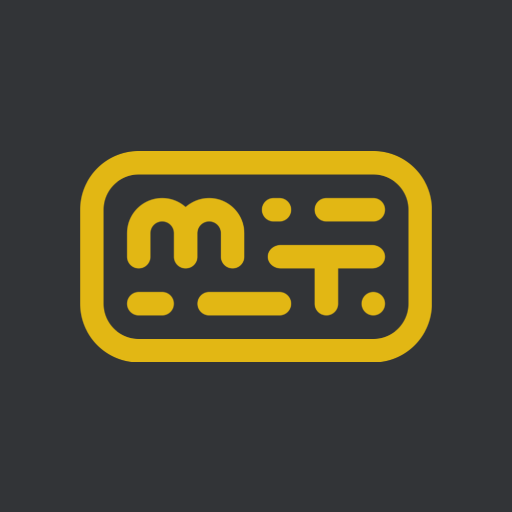
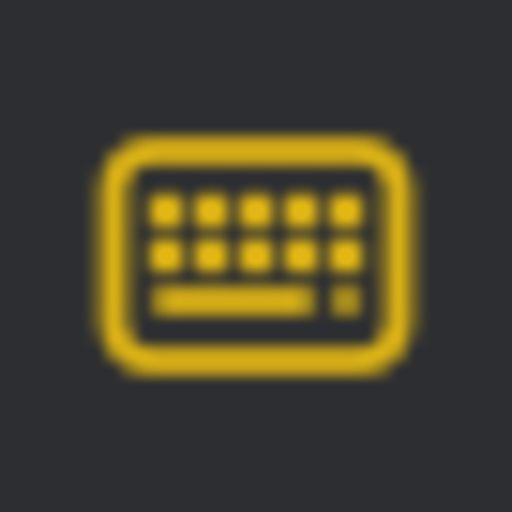
Release v1.0.2 branding update

Changed region(s): [[0.1562, 0.25, 0.8438, 0.75]]

diff --git a/frontend/src/ts/components/layout/header/Logo.tsx b/frontend/src/ts/components/layout/header/Logo.tsx
@@ -4,14 +4,13 @@ import { restartTestEvent } from "../../../events/test";
 import { getActivePage } from "../../../states/core";
 import { getFocus } from "../../../states/test";
 import { cn } from "../../../utils/cn";
-import { isDevEnvironment } from "../../../utils/env";
 
 export function Logo(): JSXElement {
   return (
     <a
       href={`${location.origin}/`}
       class="-m-2 flex h-6 w-max gap-2 rounded-[0.8rem] p-2 focus-visible:**:data-[ui-element='logoSubtext']:text-transparent"
-      aria-label="Monkeytype Home"
+      aria-label="Monkeytype Offline Home"
       router-link
       style={{
         "box-sizing": "content-box",
@@ -24,42 +23,27 @@ export function Logo(): JSXElement {
     >
       <svg
         xmlns="http://www.w3.org/2000/svg"
-        viewBox="-680 -1030 300 180"
-        class={cn("h-full fill-[currentColor] text-main transition-colors", {
+        viewBox="0 0 24 24"
+        class={cn("h-full fill-none stroke-[currentColor] text-main transition-colors", {
           "text-sub": getFocus(),
         })}
+        stroke-width="1.8"
+        stroke-linecap="round"
+        stroke-linejoin="round"
+        aria-hidden="true"
       >
-        <g>
-          <path d="M -430 -910 L -430 -910 C -424.481 -910 -420 -905.519 -420 -900 L -420 -900 C -420 -894.481 -424.481 -890 -430 -890 L -430 -890 C -435.519 -890 -440 -894.481 -440 -900 L -440 -900 C -440 -905.519 -435.519 -910 -430 -910 Z"></path>
-          <path d=" M -570 -910 L -510 -910 C -504.481 -910 -500 -905.519 -500 -900 L -500 -900 C -500 -894.481 -504.481 -890 -510 -890 L -570 -890 C -575.519 -890 -580 -894.481 -580 -900 L -580 -900 C -580 -905.519 -575.519 -910 -570 -910 Z "></path>
-          <path d="M -590 -970 L -590 -970 C -584.481 -970 -580 -965.519 -580 -960 L -580 -940 C -580 -934.481 -584.481 -930 -590 -930 L -590 -930 C -595.519 -930 -600 -934.481 -600 -940 L -600 -960 C -600 -965.519 -595.519 -970 -590 -970 Z"></path>
-          <path d=" M -639.991 -960.515 C -639.72 -976.836 -626.385 -990 -610 -990 L -610 -990 C -602.32 -990 -595.31 -987.108 -590 -982.355 C -584.69 -987.108 -577.68 -990 -570 -990 L -570 -990 C -553.615 -990 -540.28 -976.836 -540.009 -960.515 C -540.001 -960.345 -540 -960.172 -540 -960 L -540 -960 L -540 -940 C -540 -934.481 -544.481 -930 -550 -930 L -550 -930 C -555.519 -930 -560 -934.481 -560 -940 L -560 -960 L -560 -960 C -560 -965.519 -564.481 -970 -570 -970 C -575.519 -970 -580 -965.519 -580 -960 L -580 -960 L -580 -960 L -580 -940 C -580 -934.481 -584.481 -930 -590 -930 L -590 -930 C -595.519 -930 -600 -934.481 -600 -940 L -600 -960 L -600 -960 L -600 -960 L -600 -960 L -600 -960 L -600 -960 L -600 -960 L -600 -960 C -600 -965.519 -604.481 -970 -610 -970 C -615.519 -970 -620 -965.519 -620 -960 L -620 -960 L -620 -940 C -620 -934.481 -624.481 -930 -630 -930 L -630 -930 C -635.519 -930 -640 -934.481 -640 -940 L -640 -960 L -640 -960 C -640 -960.172 -639.996 -960.344 -639.991 -960.515 Z "></path>
-          <path d=" M -460 -930 L -460 -900 C -460 -894.481 -464.481 -890 -470 -890 L -470 -890 C -475.519 -890 -480 -894.481 -480 -900 L -480 -930 L -508.82 -930 C -514.99 -930 -520 -934.481 -520 -940 L -520 -940 C -520 -945.519 -514.99 -950 -508.82 -950 L -431.18 -950 C -425.01 -950 -420 -945.519 -420 -940 L -420 -940 C -420 -934.481 -425.01 -930 -431.18 -930 L -460 -930 Z "></path>
-          <path d="M -470 -990 L -430 -990 C -424.481 -990 -420 -985.519 -420 -980 L -420 -980 C -420 -974.481 -424.481 -970 -430 -970 L -470 -970 C -475.519 -970 -480 -974.481 -480 -980 L -480 -980 C -480 -985.519 -475.519 -990 -470 -990 Z"></path>
-          <path d=" M -630 -910 L -610 -910 C -604.481 -910 -600 -905.519 -600 -900 L -600 -900 C -600 -894.481 -604.481 -890 -610 -890 L -630 -890 C -635.519 -890 -640 -894.481 -640 -900 L -640 -900 C -640 -905.519 -635.519 -910 -630 -910 Z "></path>
-          <path d=" M -515 -990 L -510 -990 C -504.481 -990 -500 -985.519 -500 -980 L -500 -980 C -500 -974.481 -504.481 -970 -510 -970 L -515 -970 C -520.519 -970 -525 -974.481 -525 -980 L -525 -980 C -525 -985.519 -520.519 -990 -515 -990 Z "></path>
-          <path d=" M -660 -910 L -680 -910 L -680 -980 C -680 -1007.596 -657.596 -1030 -630 -1030 L -430 -1030 C -402.404 -1030 -380 -1007.596 -380 -980 L -380 -900 C -380 -872.404 -402.404 -850 -430 -850 L -630 -850 C -657.596 -850 -680 -872.404 -680 -900 L -680 -920 L -660 -920 L -660 -900 C -660 -883.443 -646.557 -870 -630 -870 L -430 -870 C -413.443 -870 -400 -883.443 -400 -900 L -400 -980 C -400 -996.557 -413.443 -1010 -430 -1010 L -630 -1010 C -646.557 -1010 -660 -996.557 -660 -980 L -660 -910 Z "></path>
-        </g>
+        <rect x="2.5" y="5" width="19" height="14" rx="2.5" />
+        <path d="M6 9h.01M9 9h.01M12 9h.01M15 9h.01M18 9h.01M6 12h.01M9 12h.01M12 12h.01M15 12h.01M18 12h.01" stroke-width="2.5" />
+        <path d="M6 15h9M18 15h.01" />
       </svg>
       <div class="hidden h-6 place-content-center text-[2rem] leading-0 sm:grid">
-        <div
-          class={cn(
-            "-mt-[1.65em] hidden pl-[0.5em] text-[0.315em] leading-0 text-sub transition-colors duration-125 lg:block",
-            {
-              "text-transparent": getFocus(),
-            },
-          )}
-          data-ui-element="logoSubtext"
-        >
-          {isDevEnvironment() ? "localhost" : "monkey see"}
-        </div>
         <h1
           class={cn("-mt-[0.11em] text-text transition-colors duration-250", {
             "text-sub": getFocus(),
           })}
           data-ui-element="logoText"
         >
-          monkeytype
+          monkeytype offline
         </h1>
       </div>
     </a>

diff --git a/frontend/src/html/head.html b/frontend/src/html/head.html
@@ -1,8 +1,4 @@
 <head>
-  <link rel="preconnect" href="https://api.monkeytype.com" />
-  <link rel="preconnect" href="https://identitytoolkit.googleapis.com" />
-  <link rel="preconnect" href="https://www.google.com" />
-  <link rel="preconnect" href="https://www.gstatic.com" />
   <link
     rel="preload"
     href="/webfonts/RobotoMono-Regular.woff2"
@@ -25,7 +21,7 @@
   </script>
   <meta charset="UTF-8" />
   <meta name="viewport" content="width=device-width, initial-scale=1.0" />
-  <title>Monkeytype | A minimalistic, customizable typing test</title>
+  <title>Monkeytype Offline | Offline typing practice</title>
   <!-- fallback theme colors -->
   <style>
     :root {
@@ -65,12 +61,12 @@
   />
   <meta
     name="name"
-    content="Monkeytype | A minimalistic, customizable typing test"
+    content="Monkeytype Offline | Offline typing practice"
   />
-  <meta name="image" content="https://monkeytype.com/images/mtsocial.png" />
+  
   <meta
     name="description"
-    content="The most customizable typing test website with a minimal design and a ton of features. Test yourself in various modes, track your progress and improve your speed."
+    content="A standalone offline Linux desktop edition of Monkeytype for local typing practice."
   />
   <!-- <meta
     name="keywords"
@@ -84,9 +80,9 @@
   <meta name="author" content="Miodec" />
   <meta
     property="og:title"
-    content="Monkeytype | A minimalistic, customizable typing test"
+    content="Monkeytype Offline | Offline typing practice"
   />
-  <meta property="og:url" content="https://monkeytype.com/" />
+  
   <meta property="og:type" content="website" />
   <meta
     property="og:image"
@@ -94,11 +90,11 @@
   />
   <meta
     property="og:description"
-    content="The most customizable typing test website with a minimal design and a ton of features. Test yourself in various modes, track your progress and improve your speed."
+    content="A standalone offline Linux desktop edition of Monkeytype for local typing practice."
   />
   <meta
     name="twitter:title"
-    content="Monkeytype | A minimalistic, customizable typing test"
+    content="Monkeytype Offline | Offline typing practice"
   />
   <meta
     name="twitter:image"

diff --git a/NOTICE.md b/NOTICE.md
@@ -33,3 +33,16 @@ This derivative remains licensed under GPL-3.0.
 This is not an official Monkeytype release. It is not affiliated with, sponsored by, endorsed by, or maintained by the upstream Monkeytype project.
 
 The GPL grants copyright permissions for the software but does not itself grant trademark rights in names, logos or other branding.
+
+
+## Tabler Icons
+
+The keyboard branding mark is based on the visual language of the Tabler Icons project and has been adapted for this application. Tabler Icons is licensed under the MIT License.
+
+Copyright (c) 2020-2026 Paweł Kuna
+
+Permission is hereby granted, free of charge, to any person obtaining a copy of this software and associated documentation files (the "Software"), to deal in the Software without restriction, including without limitation the rights to use, copy, modify, merge, publish, distribute, sublicense, and/or sell copies of the Software, and to permit persons to whom the Software is furnished to do so, subject to the following conditions:
+
+The above copyright notice and this permission notice shall be included in all copies or substantial portions of the Software.
+
+THE SOFTWARE IS PROVIDED "AS IS", WITHOUT WARRANTY OF ANY KIND, EXPRESS OR IMPLIED, INCLUDING BUT NOT LIMITED TO THE WARRANTIES OF MERCHANTABILITY, FITNESS FOR A PARTICULAR PURPOSE AND NONINFRINGEMENT. IN NO EVENT SHALL THE AUTHORS OR COPYRIGHT HOLDERS BE LIABLE FOR ANY CLAIM, DAMAGES OR OTHER LIABILITY, WHETHER IN AN ACTION OF CONTRACT, TORT OR OTHERWISE, ARISING FROM, OUT OF OR IN CONNECTION WITH THE SOFTWARE OR THE USE OR OTHER DEALINGS IN THE SOFTWARE.

diff --git a/RELEASE.md b/RELEASE.md
@@ -1,18 +1,19 @@
-# Monkeytype Offline Desktop v1.0.1
+# Monkeytype Offline Desktop v1.0.2
 
-Maintenance release for the offline Linux desktop edition.
+Branding maintenance release for the offline Linux desktop edition.
 
 ## Changes
 
-- Fixed the information/About control by replacing the server-dependent About page with a fully local page.
-- Removed About-page prefetching.
-- Removed the unavailable Custom Text test mode from desktop and mobile mode selectors.
+- Replaced the upstream Monkeytype header mark with a keyboard-based mark.
+- Changed the visible header title to `monkeytype offline`.
+- Added theme-aware coloring to the new in-app keyboard mark.
+- Replaced Tauri/Linux and browser/PWA icons with matching keyboard branding.
+- Updated offline metadata and removed unnecessary web preconnects.
+- Added Tabler Icons MIT attribution to `NOTICE.md`.
 
 ## Packaging
 
 Build the Debian package with `./BUILD-DEB.sh`.
-
-The GitHub Actions `Build Linux DEB` workflow can also produce the release artifact.
 
 ## License
 

diff --git a/CHANGELOG.md b/CHANGELOG.md
@@ -2,6 +2,16 @@
 
 All notable changes to Monkeytype Offline Desktop will be documented here.
 
+## 1.0.2 - 2026-08-20
+
+### Changed
+
+- Replaced the original Monkeytype header mark with a keyboard-based offline desktop mark.
+- Changed the in-app header branding to `monkeytype offline`.
+- Replaced Linux/Tauri application icons and browser/PWA icons with the new keyboard branding.
+- Updated offline page metadata and removed unnecessary web preconnect branding.
+- Added Tabler Icons MIT attribution to `NOTICE.md`.
+
 ## 1.0.1 - 2026-08-19
 
 ### Fixed
